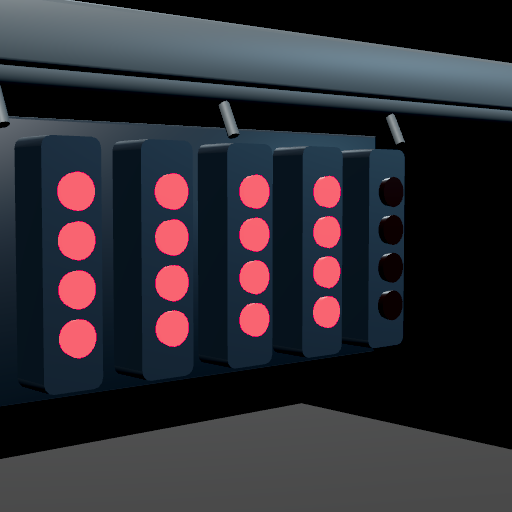
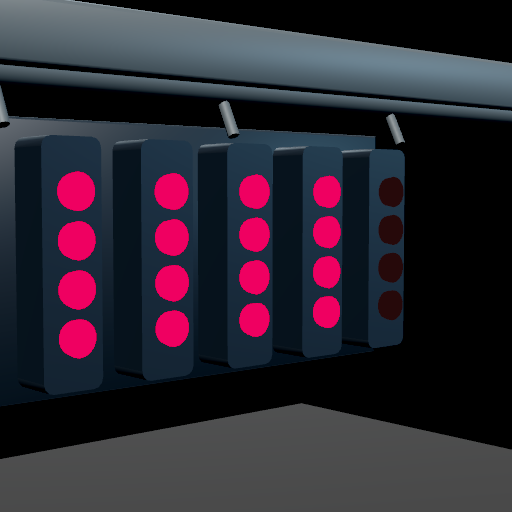
fix(f1-kit): unlit MeshBasic lamp lenses for uniform preview read
MeshPhysical lamp caps picked up directional specular (white pinprick on every disc, on and off). Match timing digits and brake beacon: MeshBasic + toneMapped:false. Re-capture start-light sequence and refresh contact sheets.

diff --git a/assets/f1-prototypes/f1-kit-core/lamps.ts b/assets/f1-prototypes/f1-kit-core/lamps.ts
@@ -1,41 +1,38 @@
 /**
- * Emissive lamp glass + the colours used when a prop actually lights the scene.
+ * Unlit lamp lenses — same contract as timing digits and the brake beacon.
  *
- * kit.red is painted equipment (extinguishers, Armco). Start/flood lamps that should glow cannot share
- * that slot — ACES turns a MeshBasic red into peach, and a non-emissive Standard disc never spills.
+ * MeshPhysicalMaterial picked up specular hot spots from the preview rig's directionals
+ * (white pinprick in the center of every disc). MeshBasic + toneMapped:false gives a
+ * uniform emissive read with no studio specular.
+ *
+ * kit.red is painted equipment (extinguishers, Armco). Start/flood lamps that glow use
+ * this helper, not the kit.red slot.
  */
 
-import { MeshPhysicalMaterial } from 'three/webgpu'
+import { MeshBasicMaterial } from 'three/webgpu'
 
 export interface F1LampMaterialOptions {
   readonly on: boolean
   /** Lit colour. Defaults to FIA start-light red. */
   readonly color?: number
   readonly name?: string
-  /** White flood lenses want a hotter emissive than a start lamp. */
+  /** White flood lenses — kept for API compat; MeshBasic uses color directly. */
   readonly intensity?: number
 }
 
-export function createLampMaterial(options: F1LampMaterialOptions): MeshPhysicalMaterial {
+export function createLampMaterial(options: F1LampMaterialOptions): MeshBasicMaterial {
   const color = options.color ?? 0xc41820
   const name = options.name ?? (options.on ? 'f1-kit / lamp on' : 'f1-kit / lamp off')
   if (!options.on) {
-    return new MeshPhysicalMaterial({
+    return new MeshBasicMaterial({
       name,
       color: 0x140808,
-      emissive: 0x000000,
-      emissiveIntensity: 0,
-      roughness: 0.2,
-      metalness: 0.22,
+      toneMapped: false,
     })
   }
-  return new MeshPhysicalMaterial({
+  return new MeshBasicMaterial({
     name,
-    color: 0x120404,
-    emissive: color,
-    emissiveIntensity: options.intensity ?? 1.35,
-    roughness: 0.18,
-    metalness: 0.04,
+    color,
     toneMapped: false,
   })
 }
